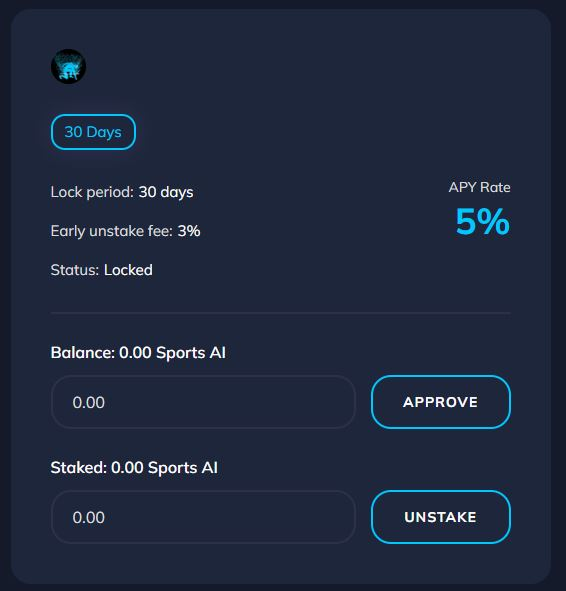
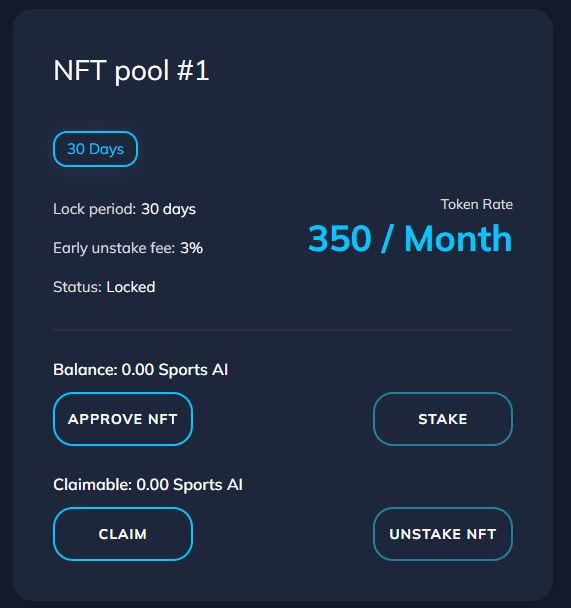
GITBOOK-30: No subject

diff --git a/products/page-2/staking-nft-sports-ai.md b/products/page-2/staking-nft-sports-ai.md
@@ -1,0 +1,30 @@
+---
+cover: ../../.gitbook/assets/CAPA.png
+coverY: 0
+---
+
+# Staking NFT Sports AI
+
+#### Staking NFT Sports AI
+
+\-> _We will also have a staking system for our NFTs! We already have an integrated platform, where we are finalizing the protocols and funds, so all holders of Sports AI NFTs can trade, mint, and also stake! An infinity of functions for a super collection._
+
+| NFT pool - 1        | NFT pool - 2        |
+| ------------------- | ------------------- |
+| 350/ Mont - 30 Days | 750/ Mont - 90 Days |
+
+{% embed url="https://dapp.sportsartificial.io/nftstaking" %}
+
+<div>
+
+<figure><img src="../../.gitbook/assets/2.JPG" alt=""><figcaption></figcaption></figure>
+
+ 
+
+<figure><img src="../../.gitbook/assets/3.JPG" alt=""><figcaption></figcaption></figure>
+
+</div>
+
+<figure><img src="../../.gitbook/assets/1.JPG" alt=""><figcaption></figcaption></figure>
+
+__

diff --git a/products/page-4/staking-sports-ai.md b/products/page-4/staking-sports-ai.md
@@ -12,11 +12,11 @@ _Below are images of our Dapp platform, where our investors will be able to mint
 
 <div>
 
-<figure><img src="../../.gitbook/assets/2.JPG" alt=""><figcaption></figcaption></figure>
+<figure><img src="../../.gitbook/assets/2 (1).JPG" alt=""><figcaption></figcaption></figure>
 
  
 
-<figure><img src="../../.gitbook/assets/3.JPG" alt=""><figcaption></figcaption></figure>
+<figure><img src="../../.gitbook/assets/3 (1).JPG" alt=""><figcaption></figcaption></figure>
 
  
 
@@ -32,4 +32,4 @@ _Below are images of our Dapp platform, where our investors will be able to mint
 
 </div>
 
-<figure><img src="../../.gitbook/assets/1.JPG" alt=""><figcaption></figcaption></figure>
+<figure><img src="../../.gitbook/assets/1 (1).JPG" alt=""><figcaption></figcaption></figure>

diff --git a/products/page-4/README.md b/products/page-4/README.md
@@ -21,4 +21,4 @@ _-**>Rewards:** In exchange for your participation in the network, users who par
 
 _---------------------------------------------------------------------------------------------------_
 
-_->We will have our NFT Marketplace where we will be able to mint our token, it will be integrated into your platform, to learn more_ [_access here._](../../group-1/page-2.md)__
+_->We will have our NFT Marketplace where we will be able to mint our token, it will be integrated into your platform, to learn more_ [_access here._](../page-2/)__

diff --git a/README.md b/README.md
@@ -54,7 +54,7 @@ _We will have a Staking platform, where we will provide our investors with a ret
 
 {% embed url="https://dapp.sportsartificial.io/" %}
 
-#### _->_ [_NFT's Marktplace_](group-1/page-2.md)__
+#### _->_ [_NFT's Marktplace_](products/page-2/)__
 
 _An exclusive NFTs Sports AI platform, with wonderful collections, our platform will soon allow for buying and selling transactions, we will have Staking on our NFTs to truly reward our investors and also the inclusion of the same in the metaverse._
 

diff --git a/SUMMARY.md b/SUMMARY.md
@@ -7,7 +7,8 @@
 ## Products
 
 * [Mobile App](group-1/page-1.md)
-* [NFT's Marketplace](group-1/page-2.md)
+* [NFT's Marketplace](products/page-2/README.md)
+  * [Staking NFT Sports AI](products/page-2/staking-nft-sports-ai.md)
 * [Coach AI](products/page-3/README.md)
   * [List of sports](products/page-3/list-of-sports.md)
   * [Features - Soccer](products/page-3/features-soccer.md)

diff --git a/products/page-2/README.md b/products/page-2/README.md
@@ -1,5 +1,5 @@
 ---
-cover: ../.gitbook/assets/CAPA.png
+cover: ../../.gitbook/assets/CAPA.png
 coverY: 0
 ---
 
